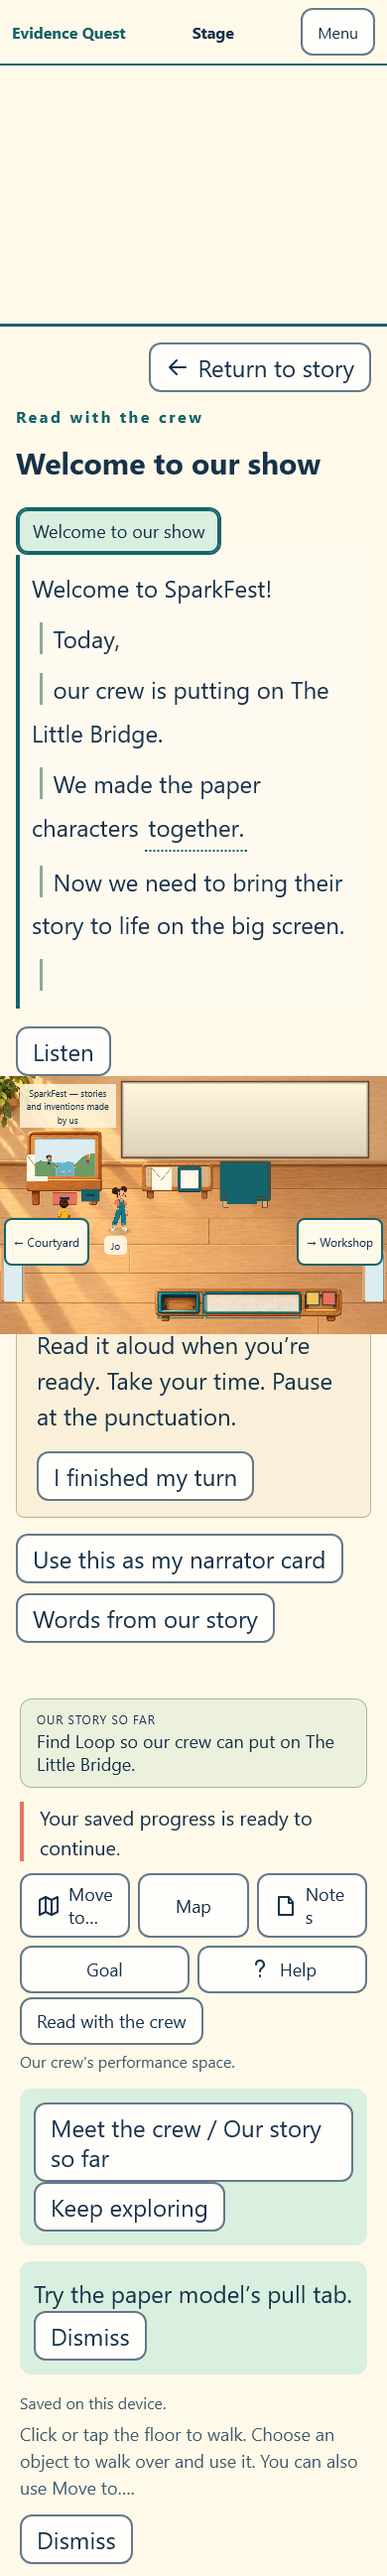
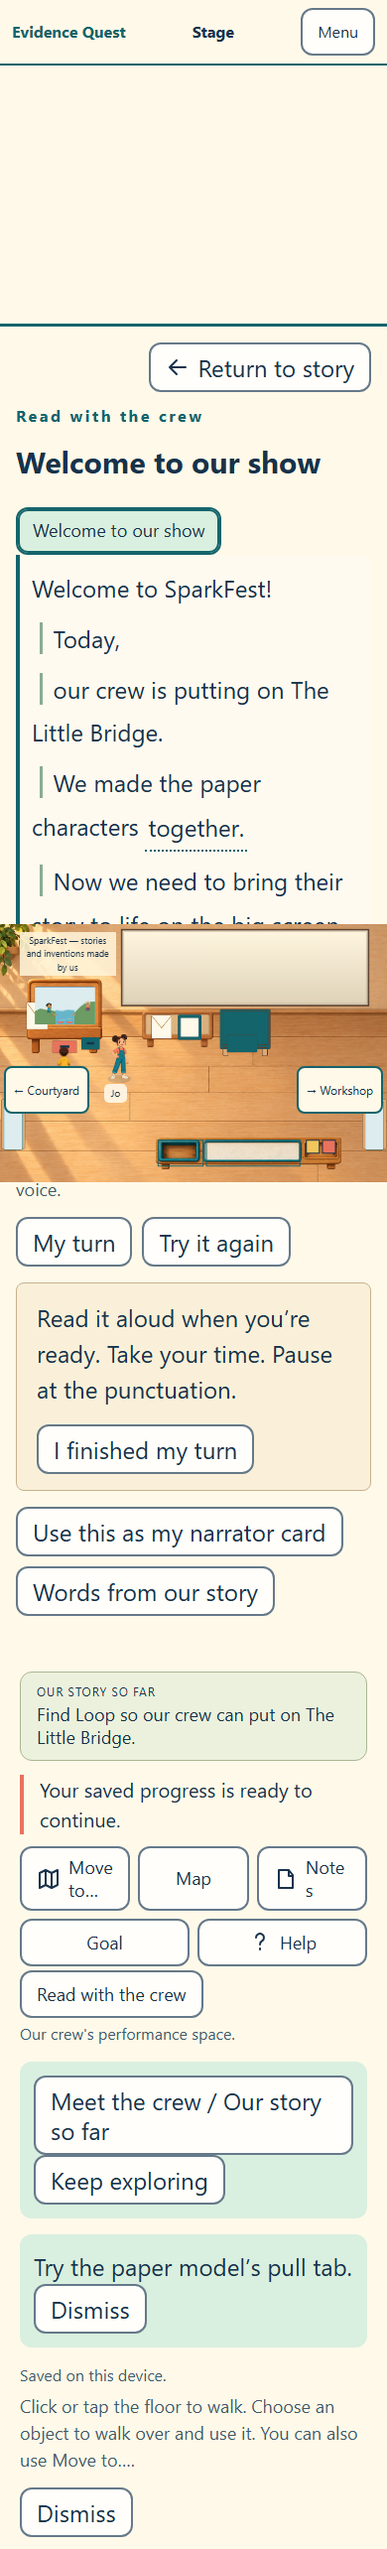
Keep vocabulary examples and restored word contexts within encountered facts

diff --git a/browser-tests/er13.spec.ts b/browser-tests/er13.spec.ts
@@ -8,7 +8,7 @@ test('ER13 fresh purpose, optional opening, re-entry, readings and exact word co
  await page.getByRole('button',{name:'Meet the crew',exact:true}).click();await expect(page.getByText(/This is Pip, our paper traveler/)).toBeVisible();await page.getByRole('button',{name:'Keep exploring',exact:true}).click();await page.getByRole('button',{name:'Read with the crew',exact:true}).click();
  await expect(page.getByRole('heading',{name:'Welcome to our show',exact:true})).toBeVisible();await expect(page.getByRole('button',{name:"Pip's promise",exact:true})).toHaveCount(0);await expect(page.getByRole('button',{name:'Our ending',exact:true})).toHaveCount(0);
  await page.getByRole('button',{name:'Show reading phrases',exact:true}).click();await page.getByRole('button',{name:'My turn',exact:true}).click();await expect(page.getByText(/Read it aloud when you’re ready/)).toBeVisible();await page.getByRole('button',{name:'I finished my turn',exact:true}).click();await page.getByRole('button',{name:'Try it again',exact:true}).click();await expect(page.getByText('This time, let your voice welcome the audience to our show.')).toBeVisible();
- await page.getByRole('button',{name:'Use this as my narrator card',exact:true}).click();await page.getByRole('button',{name:'together.',exact:true}).click();await expect(page.locator('.word-card blockquote')).toHaveText('We made the paper characters together.');await expect(page.getByText('With each other.',{exact:true})).toBeVisible();await page.getByRole('button',{name:'Return to the passage',exact:true}).click();
+ await page.getByRole('button',{name:'Use this as my narrator card',exact:true}).click();await page.getByRole('button',{name:'together.',exact:true}).click();await expect(page.locator('.word-card blockquote')).toHaveText('We made the paper characters together.');await expect(page.getByText('With each other.',{exact:true})).toBeVisible();await expect(page.locator('.word-card')).toContainText('My friend and I carried the box together.');await expect(page.locator('.word-card')).not.toContainText(/plant|seed|promise/);await page.getByRole('button',{name:'Return to the passage',exact:true}).click();
  const data=await saved(page);expect(data.payload.experience?.narratorCard).toBe('READ.WELCOME');expect(data.payload.observations.filter(o=>o.kind==='reading-practice-requested')).toHaveLength(2);expect(data.payload.observations.filter(o=>o.kind==='reading-self-reported')).toHaveLength(1);expect(data.payload.exposures).toEqual([]);expect(data.payload.certificate).toBeNull();await page.screenshot({path:'evidence/er13/reading-welcome.png',fullPage:true});
 });
 test('ER13 actual browser voice is used or its local English limitation is truthful',async({page})=>{
@@ -18,7 +18,7 @@ test('ER13 actual browser voice is used or its local English limitation is truth
  await page.screenshot({path:'evidence/er13/browser-voice-status.png',fullPage:true});await closePanel(page);expect((await saved(page)).payload.physical.room).toBe('SC.ST');
 });
 test('ER13 still meanings remain bounded to actual source contexts and full notice support is supplied',async({page})=>{
- test.setTimeout(120000);await start(page);await target(page,'ST.SOURCE.E4');await settled(page);await page.locator('[data-word=STILL]').click();await expect(page.getByText('Not moving.',{exact:true})).toBeVisible();await expect(page.locator('.word-card blockquote')).toHaveText('I need a plain wall and paper petals that stay still.');await page.getByRole('button',{name:'Return to the passage',exact:true}).click();
+ test.setTimeout(120000);await start(page);await target(page,'ST.SOURCE.E4');await settled(page);await page.locator('[data-word=STILL]').click();await expect(page.getByText('Not moving.',{exact:true})).toBeVisible();await expect(page.locator('.word-card blockquote')).toHaveText('I need a plain wall and paper petals that stay still.');await expect(page.locator('.word-card')).toContainText('The toy car stays still on the table.');await expect(page.locator('.word-card')).not.toContainText(/premiere|canceled|indoors/);await page.getByRole('button',{name:'Return to the passage',exact:true}).click();
  await target(page,'ST.EXIT.CY');await settled(page);await target(page,'CY.SOURCE.E3');await settled(page);expect((await saved(page)).payload.experience?.supports).toEqual([]);await page.getByRole('button',{name:'Flatten and secure notice',exact:true}).click();await settled(page);await page.locator('[data-word=STILL]').click();await expect(page.getByText('Continuing to be true.',{exact:true})).toBeVisible();await page.getByRole('button',{name:'Return to the passage',exact:true}).click();await page.locator('.crew-support').scrollIntoViewIfNeeded();await expect(page.getByText('The outdoor practice was canceled. The first public show is still planned.',{exact:true})).toBeVisible();await expect.poll(async()=>(await saved(page)).payload.experience?.supports).toContain('CT.ER13.SCOPE');
  expect((await saved(page)).payload.observations.some(o=>o.kind==='supplied-support')).toBe(true);
 });

diff --git a/checks/er13.test.ts b/checks/er13.test.ts
@@ -18,6 +18,7 @@ test('ER13 reading and vocabulary records do not imply source reading, fluency, 
  const h=harness();h.send({type:'NEW_GAME',caseId:randomUUID(),visitId:randomUUID()});h.send({type:'VIEW',view:{page:'reading',sourceId:'READ.WELCOME'}});h.send({type:'READING',id:'READ.WELCOME',action:'practice'});h.send({type:'READING',id:'READ.WELCOME',action:'model-played'});h.send({type:'READING',id:'READ.WELCOME',action:'self-report'});h.send({type:'READING',id:'READ.WELCOME',action:'card'});
  assert.deepEqual(h.get().case.observations.map(o=>o.kind),['reading-practice-requested','reading-model-played','reading-self-reported']);assert.equal(h.get().case.exposures.length,0);assert.equal(h.get().case.certificate,null);assert(!readingAvailable(h.get().case,'READ.PROMISE'));assert(!readingAvailable(h.get().case,'READ.ENDING'));assert(validCase(h.get().case));
  const motion=contextsFor('CT.SRC.E4').find(c=>c.word==='STILL')!,continuing=contextsFor('CT.SRC.E3').find(c=>c.word==='STILL')!;assert.equal(definition(motion).definition,'Not moving.');for(const ct of ['CT.JO.BORROW','CT.ARI.INVITE','CT.SCENE.MD'])assert.equal(definition(contextsFor(ct).find(c=>c.word==='STILL')!).definition,'Not moving.');assert.equal(definition(continuing).definition,'Continuing to be true.');assert(!definition(contextsFor('CT.CUE.FERRY').find(c=>c.word==='STILL')!).example.includes('premiere'));h.send({type:'WORD_SEEN',id:motion.id});assert.deepEqual(h.get().case.experience?.wordContexts,[]);
+ const corrupted=structuredClone(h.get().case);corrupted.experience!.wordContexts=[continuing.id];assert(!validCase(corrupted),'A saved word list cannot introduce an unexposed source sentence');
 });
 test('ER13 live provider uses canonical displayed sources, strict eligible projection, and bounded real fetch path',async()=>{
  const state=structuredClone(initialState(randomUUID(),randomUUID()));state.case.experience=newExperience();const context=contextOf(state,'where-loop');assert(validContext(context));const q={contractKind:'CoachRequest' as const,coachContractVersion:1 as const,identity:content.identity,requestId:randomUUID(),context,explanation:'I am not sure what it means.'};

diff --git a/src/core/experience.ts b/src/core/experience.ts
@@ -17,7 +17,7 @@ export const words={
  PREMIERE:{definition:'The first time a show is performed for an audience.',example:'Our premiere is the first public showing of The Little Bridge.'},
  REHEARSAL:{definition:'A practice before a performance.',example:'In rehearsal, we can try an ending and change it before the audience sees it.'},
  STILL:{definition:'Continuing to be true.',example:'The premiere is still planned.'},
- TOGETHER:{definition:'With each other.',example:'Pip and Grandma will plant the seed together.'},
+ TOGETHER:{definition:'With each other.',example:'My friend and I carried the box together.'},
  FESTIVAL:{definition:'An event where people gather to celebrate and share things.',example:'At our festival, friends share stories and inventions.'},
  PROJECTOR:{definition:'A machine that puts pictures onto a large screen.',example:'Our projector shows the paper characters on the screen.'},
 } as const;
@@ -34,7 +34,7 @@ export function contextsFor(ct:string,text=texts.get(ct)!.text):WordContext[]{
 }
 const contextIndex=new Map(content.texts.flatMap(t=>contextsFor(t.id)).map(c=>[c.id,c]));
 export const wordContext=(id:string)=>contextIndex.get(id);
-export function definition(c:WordContext){return c.word==='STILL'&&['CT.SRC.E4','CT.ER13.STILL_CONTEXT','CT.SCENE.MD','CT.JO.BORROW','CT.ARI.INVITE'].includes(c.ct)?{definition:'Not moving.',example:'The paper petals stay still indoors.'}:c.word==='STILL'&&c.ct!=='CT.SRC.E3'?{definition:'Continuing to be true.',example:'You can still try another ending.'}:words[c.word];}
+export function definition(c:WordContext){return c.word==='STILL'&&['CT.SRC.E4','CT.ER13.STILL_CONTEXT','CT.SCENE.MD','CT.JO.BORROW','CT.ARI.INVITE'].includes(c.ct)?{definition:'Not moving.',example:'The toy car stays still on the table.'}:c.word==='STILL'&&c.ct!=='CT.SRC.E3'?{definition:'Continuing to be true.',example:'You can still try another ending.'}:words[c.word];}
 export function mayEncounter(s:State,c:WordContext){
  const v=s.runtime.view;
  if(c.ct.startsWith('CT.SRC.'))return s.case.exposures.some(e=>e.ctId===c.ct&&e.spans.some(([a,b])=>a<=c.start&&b>=c.end));

diff --git a/src/save/validate.ts b/src/save/validate.ts
@@ -41,7 +41,12 @@ export function validCase(c:CaseState):boolean {
  const seq=c.observations.map(o=>o.seq),ids=c.observations.map(o=>o.id);
  if(new Set(seq).size!==seq.length||new Set(ids).size!==ids.length||seq.some((n,i)=>n>c.lastObservationSeq||(i>0&&n<=seq[i-1]!)))return false;
  if(c.observations.some(o=>o.contentIds.some(id=>!texts.has(id)&&!(o.kind.startsWith('reading-')&&readingAvailable(c,id))&&!(o.kind==='word-looked-up'&&wordContext(id)))))return false;
- if(c.experience&&(c.experience.wordContexts.some(id=>!wordContext(id))||c.experience.supports.some(id=>!supportAvailable(c,id))||c.experience.narratorCard&&!readingAvailable(c,c.experience.narratorCard)))return false;
+ if(c.experience&&(c.experience.wordContexts.some(id=>{
+  const context=wordContext(id);if(!context)return true;
+  if(context.ct.startsWith('CT.SRC.'))return !c.exposures.some(e=>e.ctId===context.ct&&e.spans.some(([a,b])=>a<=context.start&&b>=context.end));
+  return context.ct==='CT.ER13.ENDING'&&!readingAvailable(c,'READ.ENDING');
+ })||c.experience.supports.some(id=>!supportAvailable(c,id))||c.experience.narratorCard&&!readingAvailable(c,c.experience.narratorCard)))return false;
+ if(c.observations.some(o=>o.kind==='word-looked-up'&&o.contentIds.some(id=>!c.experience?.wordContexts.includes(id))))return false;
  for(const g of c.grants){
   const access=content.accesses.find(a=>a.id===g.viaAccessId);
   const spoken:Record<string,string[]>={

diff --git a/evidence/er13/review-ledger.md b/evidence/er13/review-ledger.md
@@ -22,6 +22,8 @@ The [machine ledger](checkpoint-evidence.json) retains report hashes, named outc
 - Room transition: stale prior-room dialogue no longer remains as the current room caption. The mission and encountered Loop label reflect actual state.
 - Reading position: the independent laptop reproduction (model, Preview, room, lower Read button) left the new heading above the viewport. Wide panels now restore document top; reader passage positions and surviving tile/note return focus remain owned by those views. [Before](reading-panel-before.png), [after](reading-panel-position.png), [three-engine evidence](panel-recovery-three-engine-pass.json).
 - Narrator exposure: visible words are intersected with every scrolling/clipping ancestor. The isolation fixture had previously reopened a saved reader and correctly re-exposed E6; clearing that fixture's readerResume resolved the misleading failure. Three failed reports are retained alongside the passing clipping check.
+- Independent vocabulary review: the old together transfer example could disclose joint planting from Welcome before Jo's premise/E6. Neutral box-carrying and toy-car examples now teach together and motion-still without adding unseen story details. Premiere/rehearsal transfer examples give public definitions only; the E3 event-still example is restricted to its displayed E3 sentence. Two focused browser checks verify the negative clue boundaries and intact source contexts. No opening or lookup is counted as E6 reading.
+  The same source boundary now applies to saved word contexts and lookup records. All 24 contracts plus three source/vocabulary/legacy browser checks pass after that change; vocabulary-save-pass.json records the latter.
 - Seed-only consequence: native rehearsal showed the seed moving while Pip stayed behind, then an unmet planting pause changed Watch to Arrange and hid the large result. Automatic unmet pauses now retain Watch; the factual caption appears directly with the canvas. Native prior-state images: [during boat action](native-seed-attempt-start.jpg), [paused prior presentation](native-seed-only-result.jpg), [explicit split-bank Watch](native-split-bank-watch.jpg). A revised ending remains voluntary and all five valid plans remain valid.
 - The same failed attempt was replayed after the presentation repair: [visible result and support](native-seed-only-visible.jpg). Five focused checks in seed-and-focus-pass.json cover revision through premiere, both small Watch sizes, source returns, text settings and native drag operations. The first new visibility assertion used an exact ratio of 1 and rejected half a border pixel; it now uses the existing one-pixel edge tolerance.
 - Flower composition: aspect-preserving placement inside the old narrow bounds hid the square temporary bloom behind the kneeling puppets in the taller Watch canvas, despite its visible Stage-screen counterpart. Widened visual bounds retain the seed/soil base and make the bloom rise above the characters. This is a visual-placement repair, not a puppet-engine or outcome change.

diff --git a/BUILD-STATUS.md b/BUILD-STATUS.md
@@ -9,7 +9,7 @@ The user rejected the first build experience. The dated [experience and literacy
 | ER13.01 | Opening, world, cast and purpose | IMPLEMENTED_REVIEWING | Skippable Jo opening, accepted illustrated portraits and home composition; physical model now has a live large view and visible consequence. |
 | ER13.02 | Mission, recap and independent routes | IMPLEMENTED_REVIEWING | Current-state mission and encountered cast; both recovery orders still pass. Native equipment return and seed-only revision observed; unmet pauses retain the visible consequence. |
 | ER13.03 | Reading, browser speech and narrator cards | IMPLEMENTED_REVIEWING | Three bounded cards, phrases, requested rereading and optional cue pauses; actual local English speech start observed in native browser. [Voice](evidence/er13/native-speech.json). |
-| ER13.04 | Contextual vocabulary | IMPLEMENTED_REVIEWING | Actual sentences and encounter guards; still meanings tested separately. Lookups are assistance, not mastery. |
+| ER13.04 | Contextual vocabulary | IMPLEMENTED_REVIEWING | Actual sentences and encounter guards; still meanings tested separately. Independent review corrected together/motion-still transfer examples to avoid unseen decisive facts; two focused browser checks pass. Lookups are assistance, not mastery. |
 | ER13.05 | Reachable copy and dated change register | IMPLEMENTED_REVIEWING | [Dated register](docs/ER13-COPY-REGISTER.md), 575 CT entries and unchanged original CT.SRC bodies. |
 | ER13.06 | Rich individual art and readable motion | IN_PROGRESS | Accepted Stage plus 15-asset cumulative delivery integrated with explicit crops/feet and device aspect, player walking frames, one Loop drawing with native state overlays and three Stage fixtures. Remaining fixture/story prop/Toast art awaits accepted parent delivery. |
 | ER13.07 | Actual play, regression and recovery | IN_PROGRESS | 24 contracts pass. 38/44 initial Chromium, then all 12 focused corrections pass; original reports retained. All 27 three-engine opening/literacy/connected/compact checks pass, plus 3 HTTP/model/narrator and 3 development lifecycle checks. Nine further three-engine panel/reading checks and five seed-only/compact/focus/drag checks pass. [Review ledger](evidence/er13/review-ledger.md). |

diff --git a/docs/ER13-COPY-REGISTER.md b/docs/ER13-COPY-REGISTER.md
@@ -42,3 +42,14 @@ Original supporting text is retained in the initial design import. The [dated co
 | CT.OBS.LOOP.SEEN | You saw Loop in Media during your visit. | Loop is here. Our projector can go back to the Stage. |
 | CT.OBS.LOOP.RESPONSE | Loop turned toward you and was ready to follow. | Loop turned toward you and is ready to follow. |
 | CT.TOAST.COVERED | The covered Maximum Toast machine trembles gently in its own bay. | Someone built a very large machine to make a snack. Want to see what it does? |
+
+## Independent vocabulary review correction
+
+Neutral transfer examples prevent an optional word card from introducing an unseen decisive premise. The quoted context remains the exact encountered sentence.
+
+| Control owner | Previous example | Corrected example | Reason |
+|---|---|---|---|
+| src/core/experience.ts words.TOGETHER.example | Pip and Grandma will plant the seed together. | My friend and I carried the box together. | Neutral transfer example does not reveal the joint-planting premise to a player who skipped the opening and has not encountered E6. |
+| src/core/experience.ts definition motion STILL example | The paper petals stay still indoors. | The toy car stays still on the table. | Neutral transfer example does not add an indoor-location conclusion to the displayed movement sentence. |
+
+Premiere/rehearsal examples explain the public show purpose without cancellation or source facts. The premiere-is-still-planned example is restricted to an actually displayed CT.SRC.E3 context; other continuing-still contexts use a neutral retry example. No introduction or word lookup grants E6 reading.

diff --git a/docs/ER13-CORRECTION.md b/docs/ER13-CORRECTION.md
@@ -12,6 +12,8 @@ READ.WELCOME uses the opening. READ.PROMISE uses complete canonical E6 through i
 
 Full-notice interpretation and failed joint-plant interpretation are supplied support, retained separately from source reading. The instructional rationale in the addendum is not evidence that this app improves learning. Child appeal, fluency change and retention require participant work and remain NOT_RUN.
 
+Independent review replaced together and motion-still transfer examples with neutral box-carrying and toy-car sentences, avoiding an unseen planting premise or indoor-location inference. The original exact encountered context is still quoted. Premiere/rehearsal examples explain only public show purpose; E3's event-still example requires its actual displayed source context. Save validation rejects source-word contexts without their matching exposed sentence, ending-word contexts before an observed successful run, and lookup records absent from the encountered-word list. Introduction dialogue and vocabulary support never count as reading E6.
+
 ## Selected-provider adapter
 
 server/coach.ts calls only the OpenAI Responses API with gpt-6-astra, low effort, store=false, no tools, no conversational reuse, and strict nonstreaming selection. It reconstructs eligible displayed source spans from shipped content, rejects impossible source/outcome context, and enforces current eligible moves, 16 KiB assembled input, 256 KiB provider wire response and 8 KiB client envelope.
